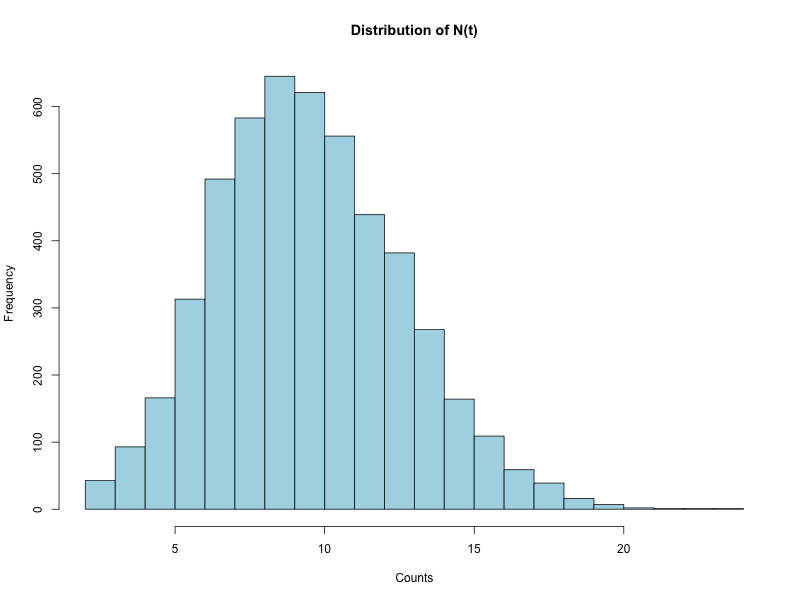
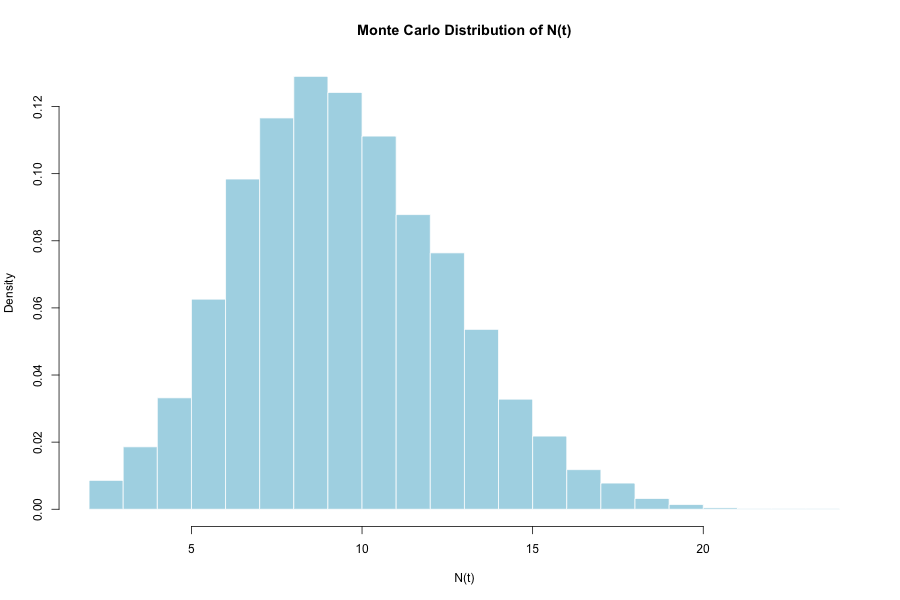
add discrete approximation and thinning algorithm

diff --git a/README.md b/README.md
@@ -108,7 +108,130 @@ This illustrates:
 - stochastic variability across trajectories,
 - convergence of empirical moments,
 - consistency of the simulation procedure.
+
 ---
+
+# Experiment 3 — Discrete-Time Approximation of Poisson Processes
+
+## Motivation
+
+Continuous-time Poisson processes can be approximated using discrete Bernoulli jump models.
+
+This experiment investigates:
+- trajectory convergence,
+- distributional convergence,
+- empirical moment convergence,
+- dependence on discretization scale ε.
+
+The approximation becomes increasingly accurate as ε decreases.
+
+---
+
+## Approximation Method
+
+The interval [0,T] is discretized into small intervals of width ε.
+
+At each interval:
+- a jump occurs with probability λε,
+- otherwise the process remains unchanged.
+
+As ε → 0, the discrete process converges toward the continuous-time Poisson process.
+
+---
+
+## Trajectory Convergence
+
+### ε = 0.5
+
+![eps05](plots/discrete_path_eps_0.5.png)
+
+### ε = 0.1
+
+![eps01](plots/discrete_path_eps_0.1.png)
+
+### ε = 0.01
+
+![eps001](plots/discrete_path_eps_0.01.png)
+
+---
+
+## Distributional Convergence
+
+### Distribution for ε = 0.5
+
+![dist05](plots/distribution_eps_0.5.png)
+
+### Distribution for ε = 0.1
+
+![dist01](plots/distribution_eps_0.1.png)
+
+### Distribution for ε = 0.01
+
+![dist001](plots/distribution_eps_0.01.png)
+
+---
+
+## Observations
+
+As ε decreases:
+- trajectories increasingly resemble continuous-time Poisson paths,
+- empirical moments converge toward theoretical values,
+- the empirical distribution approaches the theoretical Poisson distribution.
+
+This experiment illustrates convergence of discrete stochastic systems toward continuous-time jump processes.
+
+---
+
+# Experiment 4 — Inhomogeneous Poisson Processes via Thinning
+
+## Motivation
+
+Many stochastic systems exhibit time-varying event intensity.
+
+This experiment investigates:
+- non-homogeneous event arrivals,
+- intensity-driven clustering,
+- stochastic thinning algorithms,
+- empirical trajectory variability.
+
+Applications include:
+- transaction flow modelling,
+- varying market activity,
+- high-frequency event timing,
+- stochastic point-process systems.
+
+---
+
+## Thinning Algorithm
+
+A homogeneous Poisson process with sufficiently large intensity M is first simulated.
+
+Candidate events are then accepted with probability:
+
+- λ(t)/M
+
+This produces a non-homogeneous Poisson process with time-varying intensity λ(t).
+
+---
+
+## Simulated Trajectories
+
+![inhomogeneous](plots/inhomogeneous_paths.png)
+
+---
+
+## Intensity Function
+
+![intensity](plots/intensity_function.png)
+
+---
+
+## Observations
+
+The trajectories cluster more heavily in regions where λ(t) is large.
+
+This demonstrates how stochastic event intensity directly influences jump frequency and temporal clustering behaviour.
+
 
 ## Financial Connection
 